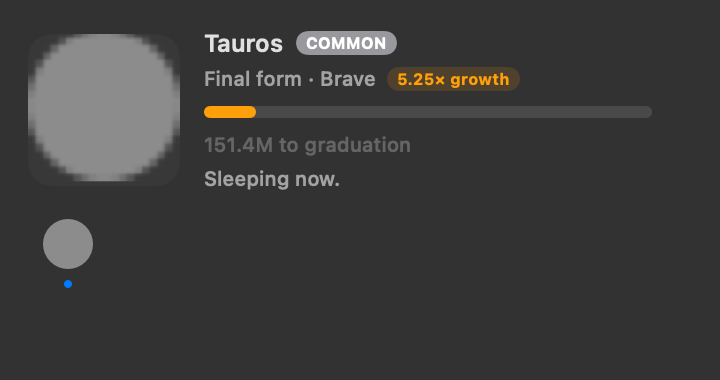
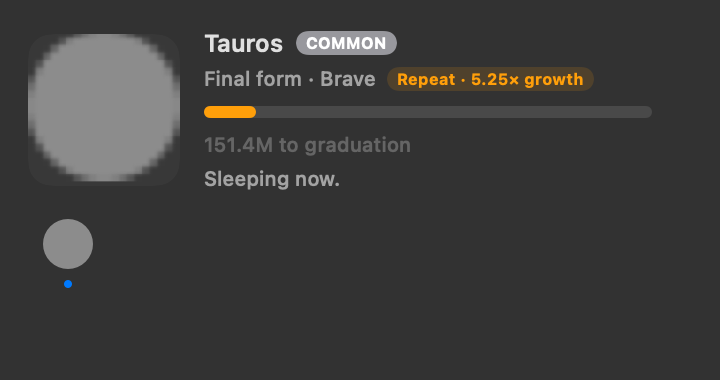
feat(bonuses): name and color a repeat's growth badge apart from bonuses alone
Orange with the word Repeat for a repeat, blue for bonuses alone; the badge moves under the
stage when both do not fit on one line.

Changed region(s): [[0.55, 0.1737, 0.825, 0.2605]]

diff --git a/Sources/PokeTokenBar/UI/CompanionView.swift b/Sources/PokeTokenBar/UI/CompanionView.swift
@@ -723,18 +723,20 @@ struct CompanionHeader: View {
     private var eggImminent: Bool { store.isEgg && store.eggProgress >= 0.9 }
 
     /// The current Pokémon's growth multiplier: the repeat boost and every bonus that applies to it, in one badge.
-    /// Hover lists them; a click opens the Bonuses page.
+    /// Orange and named for a repeat, blue for bonuses alone. Hover lists them; a click opens the Bonuses page.
     @ViewBuilder
     private var growthBadge: some View {
         let total = store.currentGrowthTotal
         if total > 1.0001 {
-            let badge = Badge(store.l.growthBoost(total), tint: .orange, style: .tinted).fixedSize()
+            let isRepeat = store.state.active?.hasGrowthBoost == true
+            let badge = Badge(isRepeat ? store.l.repeatGrowthBoost(total) : store.l.growthBoost(total),
+                              tint: isRepeat ? .orange : .blue, style: .tinted).fixedSize()
             let breakdown = store.currentGrowthFactors.map(store.growthFactorLine).joined(separator: " · ")
             if let onOpenBonuses {
                 Button(action: onOpenBonuses) { badge }
                     .buttonStyle(.plain)
                     .help(breakdown)
-                    .accessibilityLabel(store.l.growthBoost(total))
+                    .accessibilityLabel(isRepeat ? store.l.repeatGrowthBoost(total) : store.l.growthBoost(total))
                     .accessibilityHint(breakdown)
             } else {
                 badge.help(breakdown)
@@ -814,9 +816,16 @@ struct CompanionHeader: View {
                     if store.hasActive {
                         // 단계 + 성격(부화 시 확정된 개체 아이덴티티)
                         let nature = store.currentNature.map { " · \($0.name(store.language))" } ?? ""
-                        HStack(spacing: 5) {
-                            Text(store.stageText + nature).font(.caption2).foregroundStyle(.secondary)
-                            growthBadge
+                        // The growth badge follows the stage, or goes under it when both don't fit on one line.
+                        ViewThatFits(in: .horizontal) {
+                            HStack(spacing: 5) {
+                                Text(store.stageText + nature).font(.caption2).foregroundStyle(.secondary).fixedSize()
+                                growthBadge
+                            }
+                            VStack(alignment: .leading, spacing: 3) {
+                                Text(store.stageText + nature).font(.caption2).foregroundStyle(.secondary)
+                                growthBadge
+                            }
                         }
                         LabeledProgressBar(value: store.progress,
                                            label: Self.progressDetail(used: store.state.active?.usedAtStage ?? 0,

diff --git a/Sources/PokeTokenBar/UI/BonusView.swift b/Sources/PokeTokenBar/UI/BonusView.swift
@@ -63,6 +63,8 @@ struct BonusScreen: View {
     private func currentGrowth(_ l: L) -> some View {
         let factors = store.currentGrowthFactors
         let total = store.currentGrowthTotal
+        // Orange for a repeat, blue for bonuses alone, as on Home.
+        let tint: Color = store.state.active?.hasGrowthBoost == true ? .orange : .blue
         return VStack(alignment: .leading, spacing: 6) {
             HStack(alignment: .firstTextBaseline) {
                 // The name needs the loaded line; until then the section keeps its generic title.
@@ -76,7 +78,7 @@ struct BonusScreen: View {
                 }
                 Spacer(minLength: 4)
                 Text(l.growthBoost(total)).font(.callout.weight(.bold)).monospacedDigit()
-                    .foregroundStyle(total > 1.0001 ? Color.orange : Color.secondary)
+                    .foregroundStyle(total > 1.0001 ? tint : Color.secondary)
             }
             if factors.isEmpty {
                 Text(l.bonusNoGrowth).font(.caption).foregroundStyle(.secondary)
@@ -91,7 +93,7 @@ struct BonusScreen: View {
             }
         }
         .padding(10)
-        .background(Color.orange.opacity(0.08))
+        .background(tint.opacity(0.08))
         .clipShape(RoundedRectangle(cornerRadius: 10))
     }
 
@@ -99,7 +101,7 @@ struct BonusScreen: View {
     private func icon(_ source: CompanionStore.GrowthFactor.Source) -> some View {
         switch source {
         case .repeatBoost: Image(systemName: "arrow.triangle.2.circlepath").foregroundStyle(.orange)
-        case .badges: Image(systemName: "rosette").foregroundStyle(.orange)
+        case .badges: Image(systemName: "rosette").foregroundStyle(.blue)
         case .item(let kind): ItemIconView(kind: kind, size: 22)
         }
     }

diff --git a/Sources/PokeTokenBar/Core/Localization.swift b/Sources/PokeTokenBar/Core/Localization.swift
@@ -1062,6 +1062,11 @@ struct L {
         let m = multiplierNumber(multiplier)
         return t("\(m)× 성장", "\(m)× growth", "成長 \(m)倍", "Crecimiento ×\(m)", "Croissance ×\(m)", "Crescimento ×\(m)", "\(m)× Wachstum", "Рост ×\(m)")
     }
+    /// The Home growth badge of a repeat: the word says why it is orange ("Repeat · 5.25× growth").
+    func repeatGrowthBoost(_ multiplier: Double) -> String {
+        let word = t("중복", "Repeat", "ダブり", "Repetido", "Doublon", "Repetido", "Wiederholung", "Повтор")
+        return "\(word) · \(growthBoost(multiplier))"
+    }
     var bonusTitle: String { t("보너스", "Bonuses", "ボーナス", "Bonificaciones", "Bonus", "Bônus", "Boni", "Бонусы") }
     var bonusOpen: String {
         t("모든 보너스 보기", "See all bonuses", "すべてのボーナスを見る", "Ver todas las bonificaciones",

diff --git a/Tests/PokeTokenBarTests/LocalizationInterpolationTests.swift b/Tests/PokeTokenBarTests/LocalizationInterpolationTests.swift
@@ -97,6 +97,7 @@ final class LocalizationInterpolationTests: XCTestCase {
             expect(lang, "growthBoost", l.growthBoost(4242), l.multiplierNumber(4242))
             expect(lang, "eggThresholdSummary", l.eggThresholdSummary(a, instead: b), a, b)
             expect(lang, "shinyOddsSummary", l.shinyOddsSummary(4242), "4242")
+            expect(lang, "repeatGrowthBoost", l.repeatGrowthBoost(4242), l.multiplierNumber(4242))
             expect(lang, "graduated", l.graduated(a), a)
             expect(lang, "statusEvolved", l.statusEvolved(a), a)
 

diff --git a/Sources/PokeTokenBar/UI/Badge.swift b/Sources/PokeTokenBar/UI/Badge.swift
@@ -43,7 +43,7 @@ enum BadgeTint {
     /// nil = a PokeAPI type outside the 18 (stellar, shadow, unknown) → neutral gray.
     case type(PokemonType?)
     case rarity(Rarity?)
-    case accent, orange, secondary
+    case accent, orange, blue, secondary
 
     var color: Color {
         switch self {
@@ -51,6 +51,7 @@ enum BadgeTint {
         case .rarity(let rarity): rarityColor(rarity)
         case .accent: .accentColor
         case .orange: .orange
+        case .blue: .blue
         case .secondary: .secondary
         }
     }
